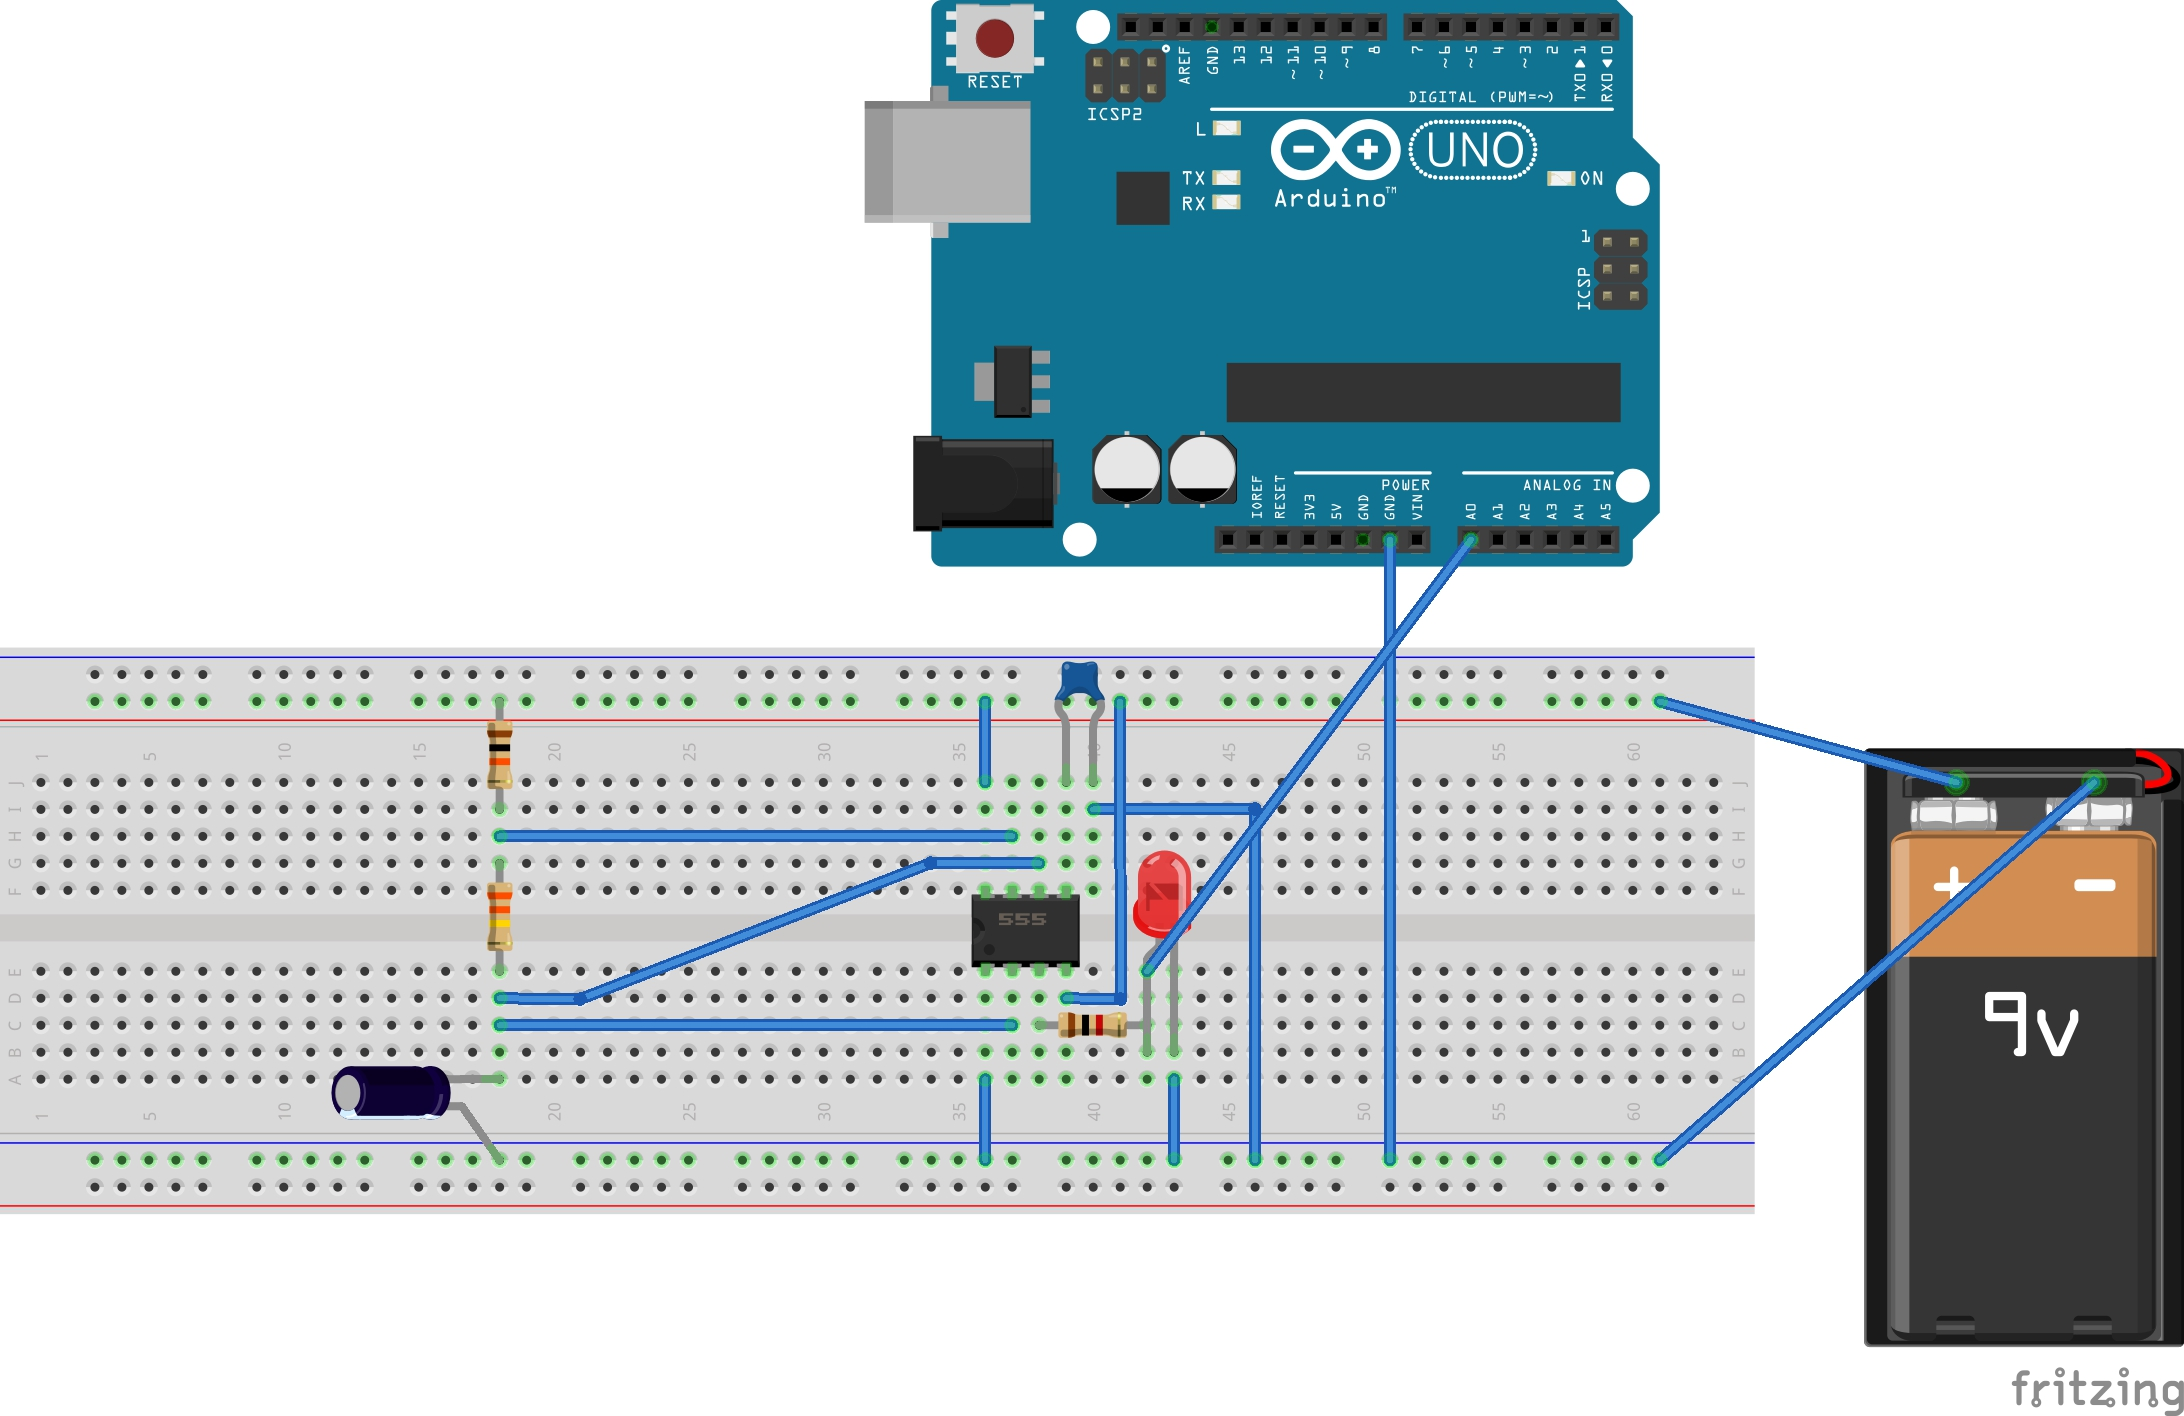
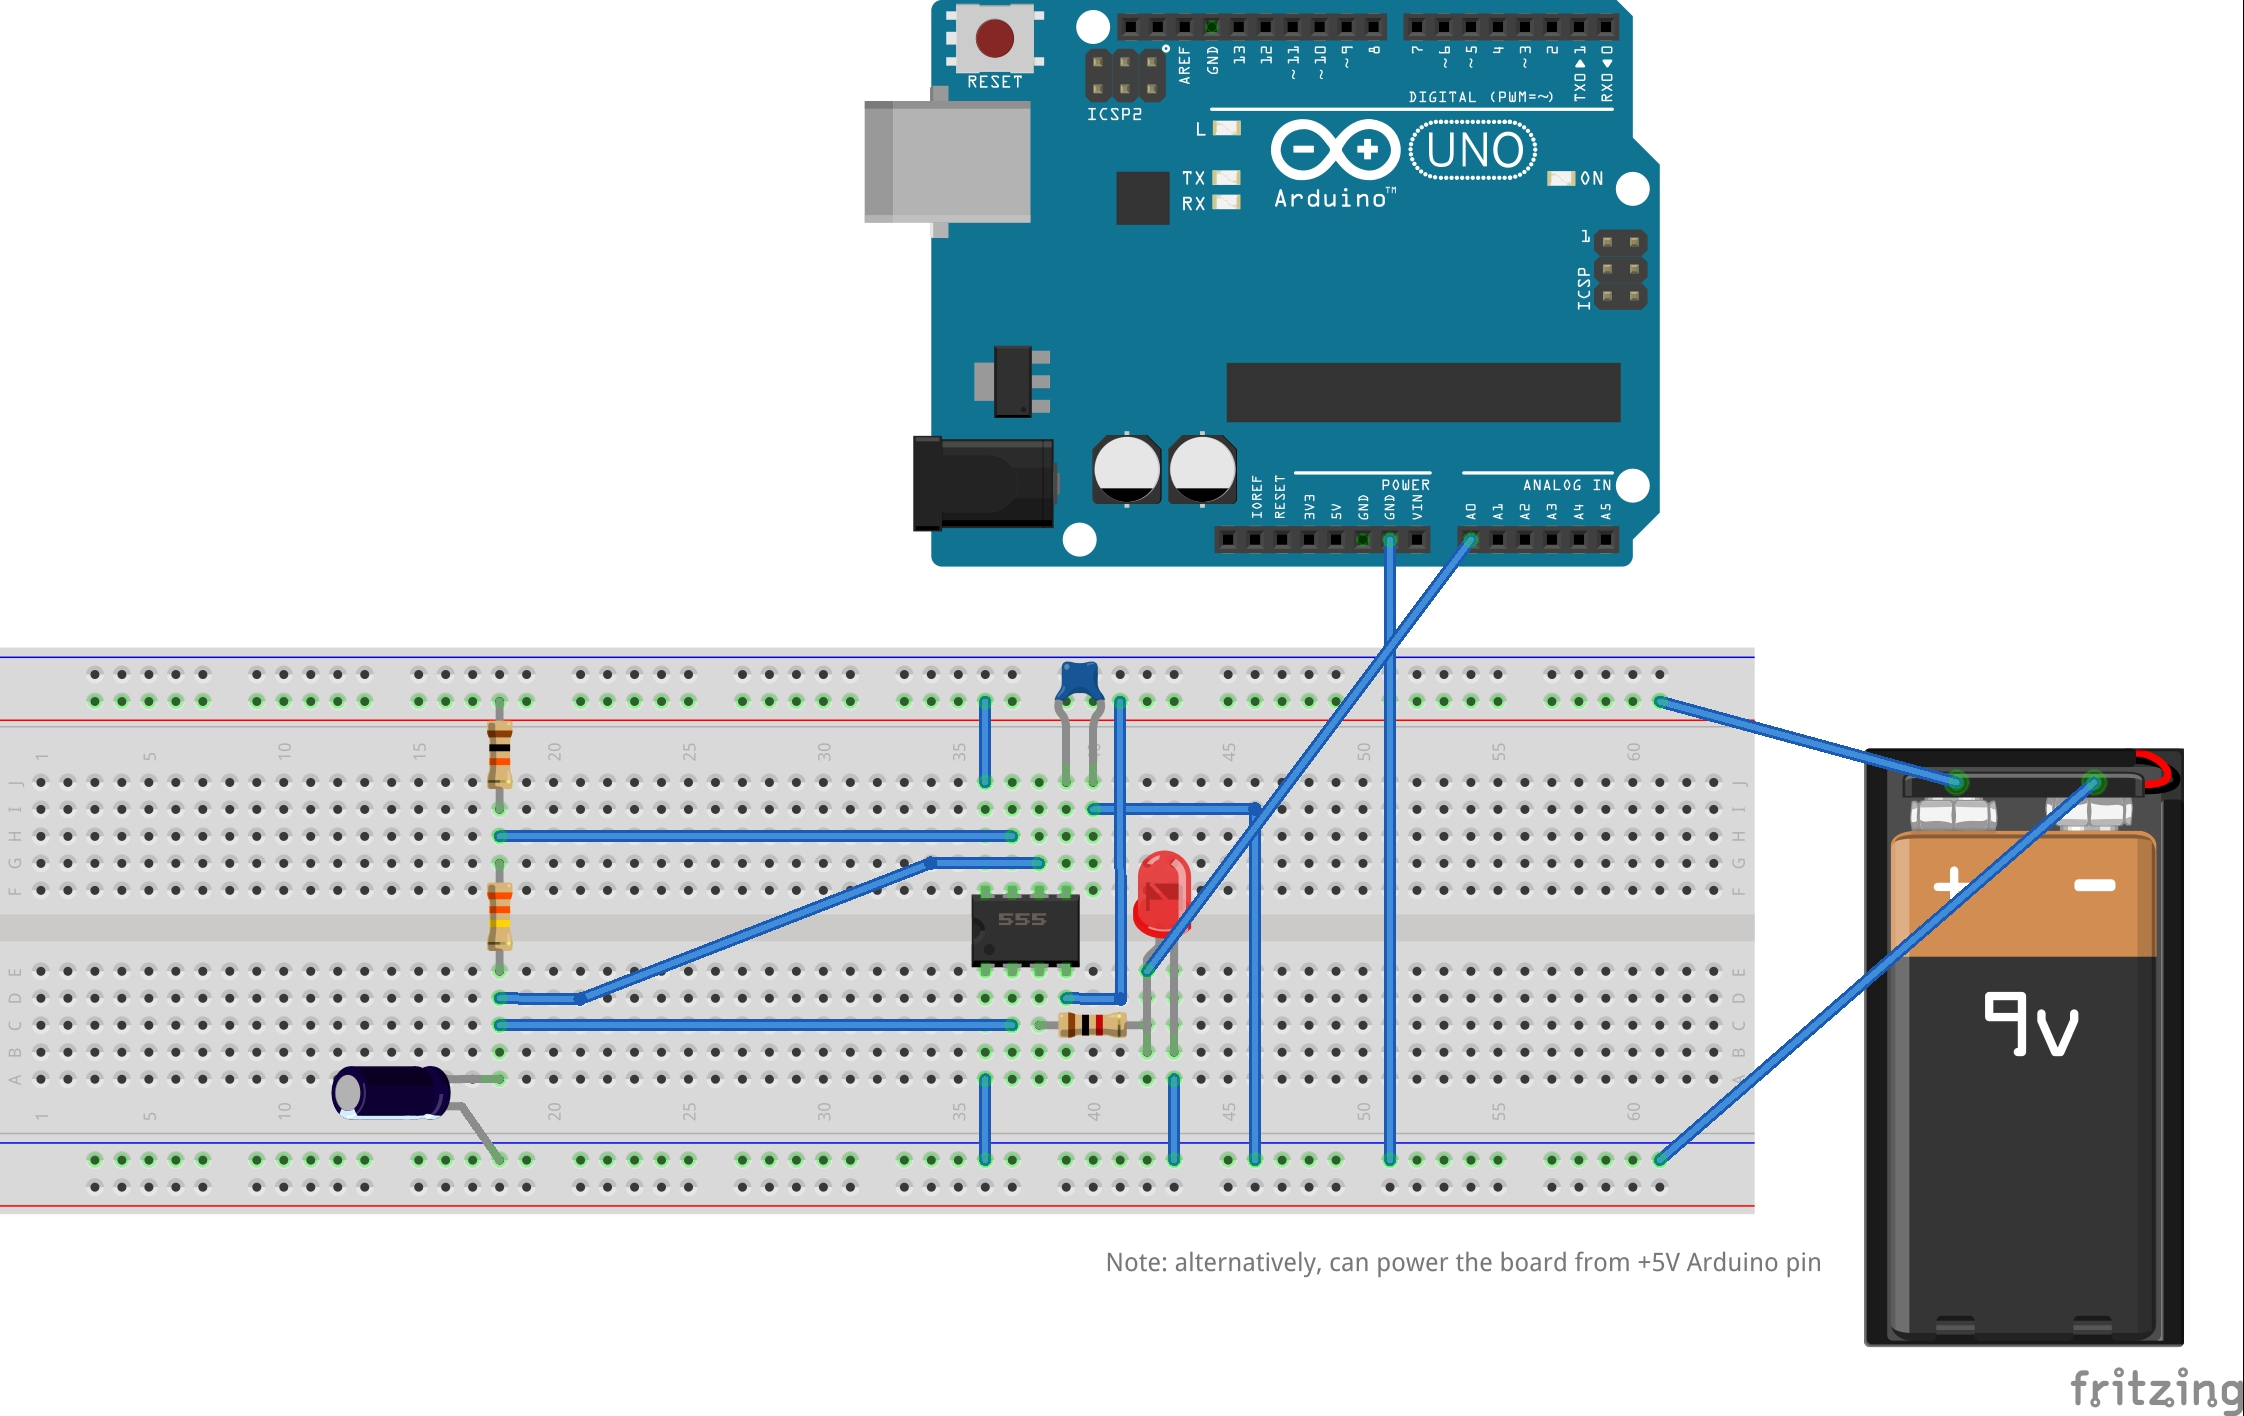
add 555 a-stable project commentary

Changed region(s): [[0.0311, 0.0, 1.0, 1.0]]

diff --git a/555Timer/AstableOscillator/README.md b/555Timer/AstableOscillator/README.md
@@ -8,7 +8,34 @@ Here's a quick video of the circuit in action:
 
 ## Notes
 
-The output is tapped at the anode of the LED, read with an analog input pin and echoed to the Arduino serial port.
+The oscillator circuit is based on project 1 from [Beginning Analog Electronics through Projects](http://www.amazon.com/gp/product/0750672838/ref=as_li_tl?ie=UTF8&camp=1789&creative=390957&creativeASIN=0750672838&linkCode=as2&tag=itsaprli-20&linkId=D6X64MWAYQPEYQJC), and any number of other examples you can find with a quick Google search.
+
+The a-stable mode of operation is actually well described in the [LM555 Datasheet](http://www.futurlec.com/Linear/LM555CN.shtml).
+This circuit produces a free-running square wave at the output pin 3, with frequency and duty cycle determined by the values of R1, R2, and C1.
+
+
+### Selecting R1, R2, C1 Values
+
+The circuit described uses
+[R1=10k, R2=330k and C1=2.2uF](http://visual555.tardate.com?r1=10&r2=330&c=2.2),
+which results in a frequency of just about 1Hz and 50% duty cycle. i.e. half a second on, half a second off.
+
+See the datasheet for the related formulae. You can also find various websites that offer 555 timer calcuators,
+but I decided to write my own [Visual 555 Calculator](http://visual555.tardate.com) so that I could play around with HTML5 animation of the resulting circuit;-)
+
+
+### Powering the project
+
+The breadboard can be happily powered from an independent 9V supply, as indicated in the schematic.
+In this configuration, connecting the Arduino is purely optional -- enabling the realtime processing plot of the output state.
+
+However, it is also possible to power the board directly from the Arduino 5V pin.
+
+### Output State Plots
+
+The output voltage is tapped at the anode of the LED, read with an analog input pin and echoed to the Arduino serial port.
+It's important to have the Arduino measure the voltage across the LED only, since with a 9V supply this will only be in the order of 2V or so, not the full 7V+ at the
+outpu pin 3 of the 555 timer.
 
 [PlotNValues (a simple Processing sketch)](../../processing/PlotNValues) reads the data from the serial port and plots the output value over time, with some coloration effects thrown in for good measure. In other words, we're using Arduino and Processing as a basic oscilloscope! And it kind of works, mainly because the frequency is so low.
 
@@ -29,3 +56,4 @@ Here's a sample trace:
 ## Credits and References
 * [Download Processing](https://www.processing.org/download/)
 * [LM555 Datasheet](http://www.futurlec.com/Linear/LM555CN.shtml)
+* [Beginning Analog Electronics through Projects](http://www.amazon.com/gp/product/0750672838/ref=as_li_tl?ie=UTF8&camp=1789&creative=390957&creativeASIN=0750672838&linkCode=as2&tag=itsaprli-20&linkId=D6X64MWAYQPEYQJC)

diff --git a/README.md b/README.md
@@ -42,7 +42,7 @@ See the [X113647Stepper github page](https://github.com/tardate/X113647Stepper) 
 
 ### 555 Timer Circuits
 
-* [a-stable oscillator](./555Timer/AstableOscillator) - classic a-stable operation using an Arduino and processing to plot the output
+* [a-stable oscillator](./555Timer/AstableOscillator) - classic free-running oscillator using an Arduino and processing to plot the output.
 
 ### Processing Scripts
 
